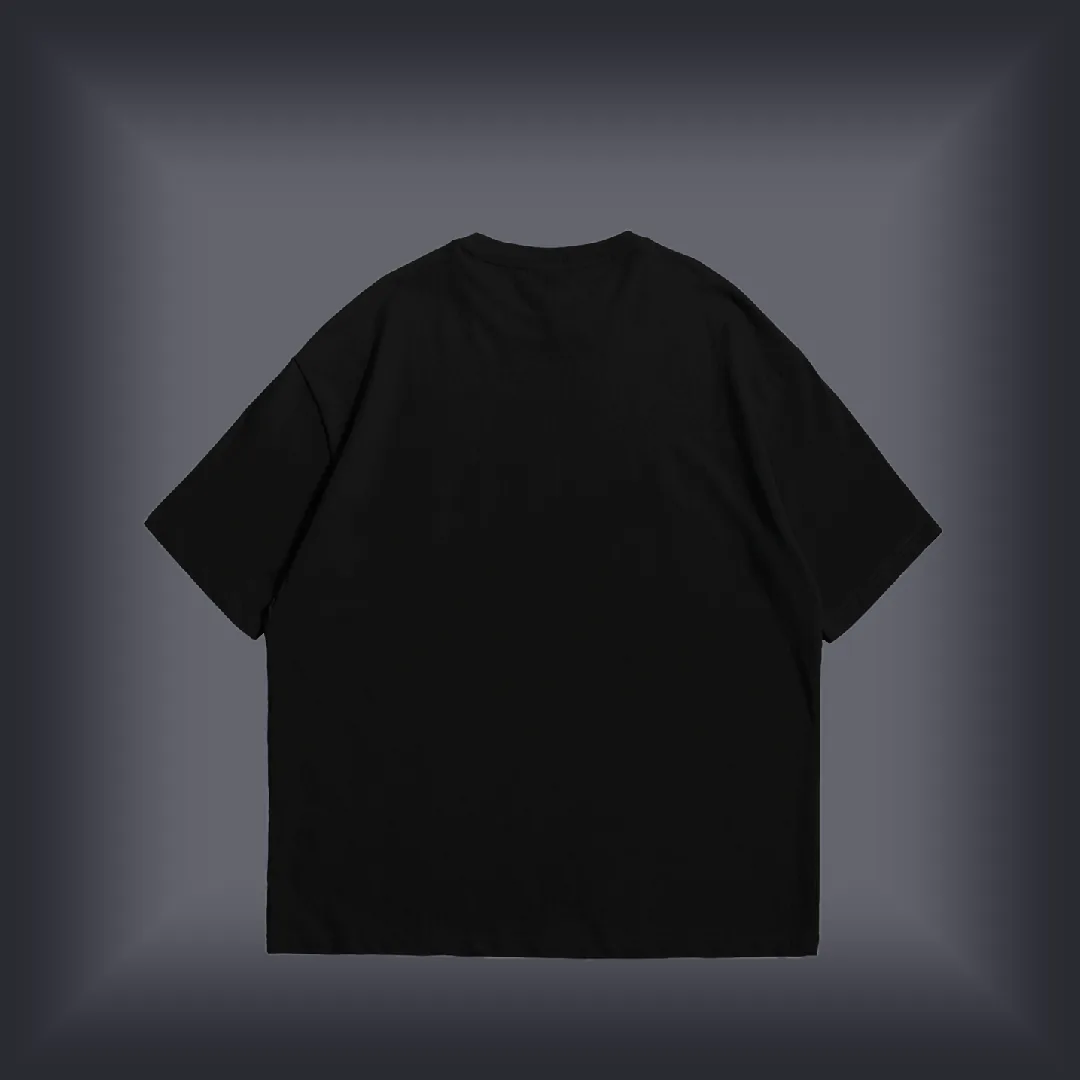
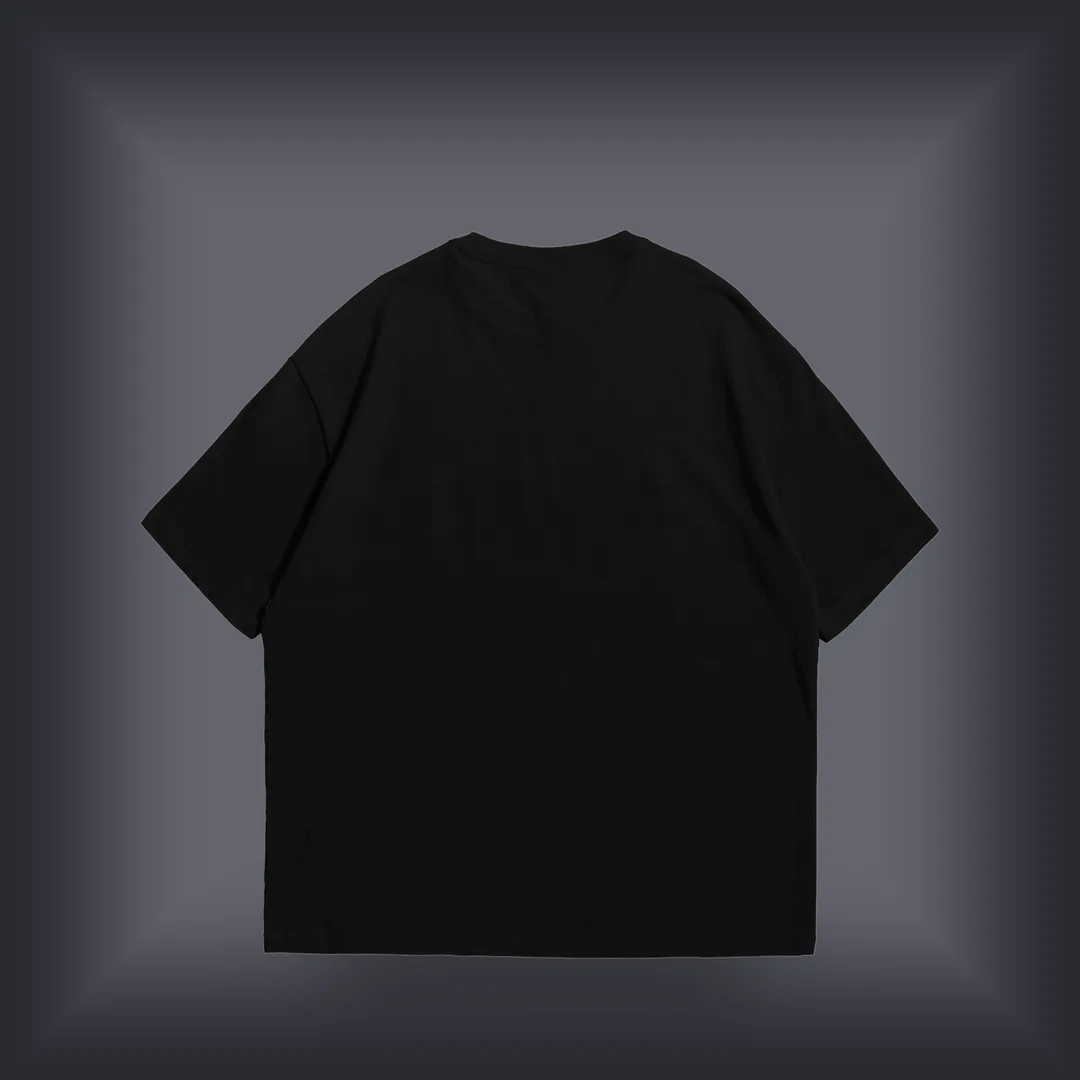
موكابات الكحل والبيض من نفس العائلة · زر تحميل المعاينة
الموكابات
---------
الكحل والبيض كانو من موكابات قديمة 1080×1080 فيها **اللور وحدو**، ومن
عائلة تصوير مختلفة على الرمادي/النيلي/الأخضر. دابا الخمسة كلهم من نفس
الملف (4703×2647، قدّام+لور)، معالجين لـ2200×2200.

النتيجة على هندسة الطباعة:
  قبل: أكبر تشتت 0.008 (الكحل والبيض شادين)
  بعد: 0.001 عبر **10 موكابات** (5 ألوان × وجهين)

يعني PRINT ف designs.js ولا مضبوط على الجميع، وزر "القدّام" ولا كيبان
على الخمسة — كان مخبّي على الكحل والبيض حيت hasFront() ماكانش كيلقى
variants[i].front.

الهيكس تحدث من الموكابات الجداد: BLACK #131315 → #131313،
WHITE #eeece5 → #e2e3e3. القاعدة ف products.js: الهيكس مقيس من بيكسل
القماش الحقيقي، ماشي بالعين.

القديمة محفوظة ف raw/_old-blank-jpg/.

تحميل المعاينة
--------------
wa.me كيحمل **نص فقط** — ماكاينش طريقة برمجية نلصقو صورة. صاحب المتجر
كان كيوصلو الوصف وحدو وكيخمن الموضع.

زدنا زر أخضر ف نافذة الطلب كيحمّل المعاينة، والرسالة كتطلب من الزبون
يلصقها. الملف كيتسمى برقم الطلب (VLK-XXXXXX.webp) فكيتربط مباشرة.

Blob وماشي data URL ف href: معاينة الوجهين كتوصل ~2 MB، و href بهاد
الطول كيفشل ف Safari وكيثقل الـDOM. وكنحررو الرابط القديم مع كل فتح.

تباين
-----
ملي ولا الزر أخضر، بان أن .btn--wa كامل كان فاشل: نص أبيض على #1faf54
= 2.87:1، والأزرار نصها 12→15px عريض يعني كتحتاج 4.5:1 ماشي 3.0.
كان كيمس زر الطلب الرئيسي والشريط السفلي حتى هوما.
#17843f = 4.76:1 ✓ وباقي كيتعرف كأخضر واتساب.

diff --git a/src/components/order.js b/src/components/order.js
@@ -25,6 +25,7 @@ export function createOrderModal() {
     desc: document.getElementById('modalDesc'),
     ref: document.getElementById('modalRef'),
     form: document.getElementById('orderForm'),
+    save: document.getElementById('modalSave'),
     colorChips: document.getElementById('colorChips'),
     sizeChips: document.getElementById('sizeChips'),
     fColor: document.getElementById('fColor'),
@@ -92,6 +93,33 @@ export function createOrderModal() {
       .join('');
   }
 
+  /**
+   * رابط تحميل المعاينة.
+   *
+   * ⚠ Blob وماشي الـdata URL مباشرة: المعاينة ديال وجهين كتوصل ~2 MB،
+   * و`href` بهاد الطول كيفشل ف تحميل Safari وكيثقل الـDOM. وكنحررو الرابط
+   * القديم — بلاها كل فتح ديال النافذة كيسرب ذاكرة.
+   */
+  let saveUrl = null;
+  function setSaveLink(dataUrl) {
+    if (saveUrl) URL.revokeObjectURL(saveUrl);
+    saveUrl = null;
+    if (!dataUrl) {
+      el.save.hidden = true;
+      el.save.removeAttribute('href');
+      return;
+    }
+    const [head, b64] = dataUrl.split(',');
+    const mime = head.match(/:(.*?);/)?.[1] ?? 'image/webp';
+    const bin = atob(b64);
+    const buf = new Uint8Array(bin.length);
+    for (let i = 0; i < bin.length; i++) buf[i] = bin.charCodeAt(i);
+    saveUrl = URL.createObjectURL(new Blob([buf], { type: mime }));
+    el.save.href = saveUrl;
+    el.save.download = `${ref}.${mime.split('/')[1] || 'webp'}`;
+    el.save.hidden = false;
+  }
+
   function paintProduct() {
     const v = product.variants[variant];
 
@@ -100,9 +128,11 @@ export function createOrderModal() {
     if (extra.preview) {
       el.img.removeAttribute('srcset');
       el.img.src = extra.preview;
+      setSaveLink(extra.preview);
     } else {
       el.img.src = v.solid;
       el.img.srcset = v.solidSrcset;
+      setSaveLink(null);
     }
     el.img.alt = `${pick(product.name)} — ${pick(v)}`;
     el.title.textContent = pick(product.name);

diff --git a/src/lib/whatsapp.js b/src/lib/whatsapp.js
@@ -47,6 +47,8 @@ export function buildMessage(o) {
         place: 'الموضع',
         cm: 'سم',
         attachHead: 'مهم',
+        preview:
+          'لصق صورة المعاينة ف هاد المحادثة (كاين زر «حمّل صورة المعاينة» ف صفحة الطلب) — بيها كنشوفو بالضبط فين وشحال من الطبعة.',
         attach:
           'لصق الصورة ديال الديزاين ف هاد المحادثة قبل ما تصيفط الرسالة — بلاها ماغاديش نقدرو نطبعو الطلب.',
         attachMany: (n) =>
@@ -76,6 +78,8 @@ export function buildMessage(o) {
         place: 'Emplacement',
         cm: 'cm',
         attachHead: 'Important',
+        preview:
+          "Joignez l'aperçu dans cette conversation (bouton « Enregistrer l'aperçu » sur la page de commande) — il nous montre exactement la taille et l'emplacement.",
         attach:
           "Joignez l'image de votre design dans cette conversation avant d'envoyer — sans elle, on ne peut pas lancer l'impression.",
         attachMany: (n) =>
@@ -138,9 +142,14 @@ export function buildMessage(o) {
   // رابط wa.me كيحمل نص فقط، فماكاينش طريقة نلصقو الصورة نيابة عليه.
   // ⚠ العدد مهم: وجهين بديزاين ديال الزبون = **جوج ملفات**، وبلا ما نقولوها
   // الزبون كيلصق وحدة وكيظن أنه سالا.
-  if (o.ownDesign) {
-    const n = o.ownCount ?? 1;
-    lines.push('', `*⚠ ${L.attachHead}*`, n > 1 ? L.attachMany(n) : L.attach);
+  if (o.sides?.length) {
+    lines.push('', `*⚠ ${L.attachHead}*`);
+    // المعاينة أول حاجة: هي اللي كتوري الحجم والموضع بلا تخمين.
+    lines.push(L.preview);
+    if (o.ownDesign) {
+      const n = o.ownCount ?? 1;
+      lines.push('', n > 1 ? L.attachMany(n) : L.attach);
+    }
   }
 
   return lines.join('\n');

diff --git a/src/styles/base.css b/src/styles/base.css
@@ -203,8 +203,12 @@ html[lang='ar'] .btn { text-transform: none; letter-spacing: 0; }
 .btn--royal { --btn-bg: var(--royal); --btn-fg: #fff; }
 .btn--royal:hover { box-shadow: 0 10px 30px -8px rgba(36, 71, 232, 0.6); }
 
-.btn--wa { --btn-bg: #1faf54; --btn-fg: #fff; }
-.btn--wa:hover { box-shadow: 0 10px 30px -8px rgba(31, 175, 84, 0.55); }
+/* أخضر واتساب معتّم باش نص أبيض يعدي التباين.
+   الأصلي #25d366 كيعطي 2.1:1 مع أبيض، و#1faf54 اللي كان هنا 2.87:1 —
+   والأزرار نصها 12→15px عريض، يعني كتحتاج **4.5:1** ماشي 3.0.
+   #17843f = 4.76:1، وباقي كيتعرف كأخضر واتساب. */
+.btn--wa { --btn-bg: #17843f; --btn-fg: #fff; }
+.btn--wa:hover { box-shadow: 0 10px 30px -8px rgba(23, 132, 63, 0.55); }
 
 .btn--lg { padding: 1.1em 2.2em; font-size: 0.95rem; }
 .btn--block { inline-size: 100%; }

diff --git a/src/i18n/strings.js b/src/i18n/strings.js
@@ -164,6 +164,7 @@ export const ar = {
   'order.hint': 'غادي يتحل واتساب بالرسالة معمّرة — غير صيفطها.',
   'order.pickSize': 'اختار القياس',
   'order.ref': 'رقم الطلب',
+  'order.savePreview': 'حمّل صورة المعاينة',
   'order.close': 'سد',
 
   'err.name': 'كتب السمية ديالك (على الأقل حرفين).',
@@ -339,6 +340,7 @@ export const fr = {
   'order.hint': "WhatsApp s'ouvre avec le message déjà écrit — vous n'avez qu'à envoyer.",
   'order.pickSize': 'Choisissez la taille',
   'order.ref': 'N° de commande',
+  'order.savePreview': "Enregistrer l'aperçu",
   'order.close': 'Fermer',
 
   'err.name': 'Écrivez votre nom (2 caractères minimum).',

diff --git a/src/data/products.js b/src/data/products.js
@@ -86,8 +86,8 @@ function shot(stem) {
 
 /* الألوان. قيم hex مقيسة من بيكسل القماش الحقيقي ف كل موكاب — ماشي بالعين —
    باش النقطة الملونة ف البطاقة تطابق التيشيرت بالضبط. */
-const BLACK = { key: 'black', ar: 'كحل', fr: 'Noir', hex: '#131315' };
-const WHITE = { key: 'white', ar: 'بيض', fr: 'Blanc', hex: '#eeece5' };
+const BLACK = { key: 'black', ar: 'كحل', fr: 'Noir', hex: '#131313' };
+const WHITE = { key: 'white', ar: 'بيض', fr: 'Blanc', hex: '#e2e3e3' };
 
 /* ألوان التيشيرت الخاوي (قسم "صمم ديالك"). الهيكس مقيس من وسط الجذع ف
    كل موكاب — ماشي بالعين.

diff --git a/index.html b/index.html
@@ -426,6 +426,10 @@
 
       <div class="modal__art">
         <img id="modalImg" src="" alt="" width="720" height="720" />
+        <!-- wa.me كيحمل نص فقط. الزبون كيحمّل المعاينة من هنا وكيلصقها
+             ف المحادثة — بلاها صاحب المتجر كيقرا الوصف وكيخمن. -->
+        <a class="btn btn--wa modal__save" id="modalSave" download hidden
+           data-i18n="order.savePreview">حمّل صورة المعاينة</a>
         <h2 class="modal__title" id="modalTitle"></h2>
         <p class="modal__desc" id="modalDesc"></p>
         <p class="modal__ref"><span data-i18n="order.ref">رقم الطلب</span>: <b id="modalRef"></b></p>

diff --git a/src/styles/components/order.css b/src/styles/components/order.css
@@ -92,6 +92,15 @@
   align-content: start;
 }
 
+/* زر تحميل المعاينة — كيبان غير ف الطلب المخصص */
+.modal__save {
+  justify-self: start;
+  margin-block-start: 0.6rem;
+  font-size: var(--t-xs);
+  padding: 0.6em 1.1em;
+}
+.modal__save[hidden] { display: none; }
+
 .field { display: grid; gap: 0.4rem; }
 
 /* ⚠ ضروري. المتصفح عندو `[hidden] { display: none }` ف ستايلو الافتراضي،
